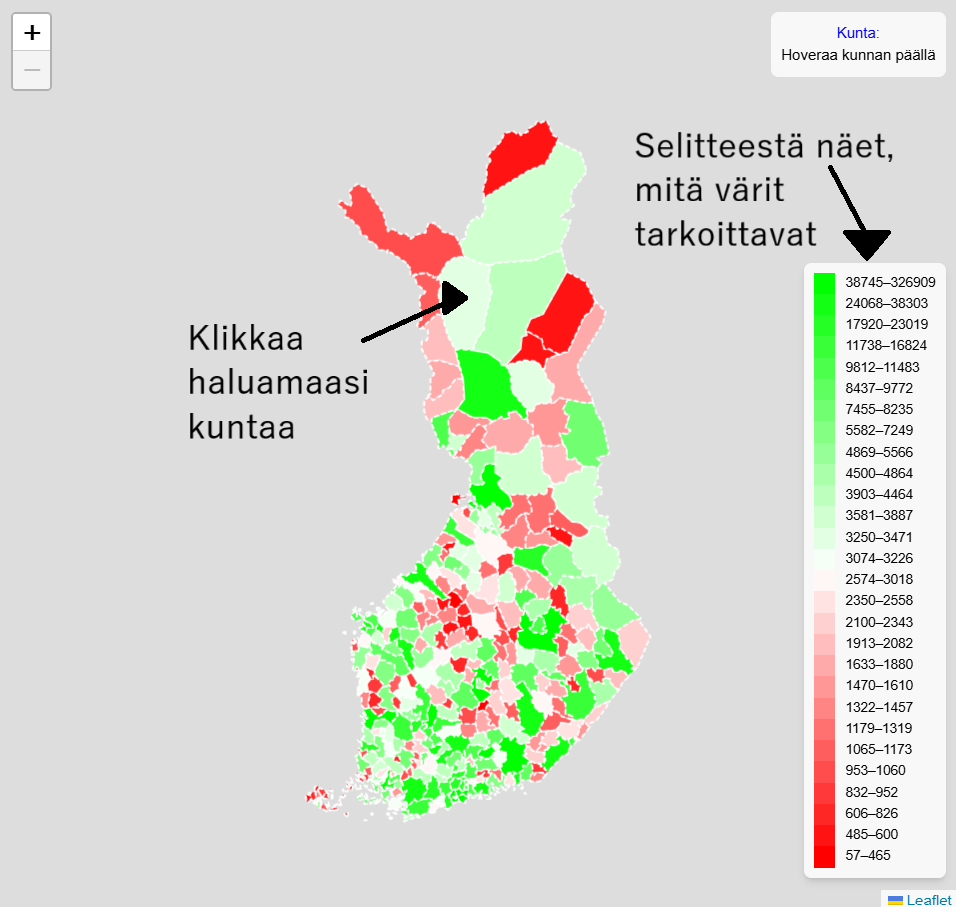
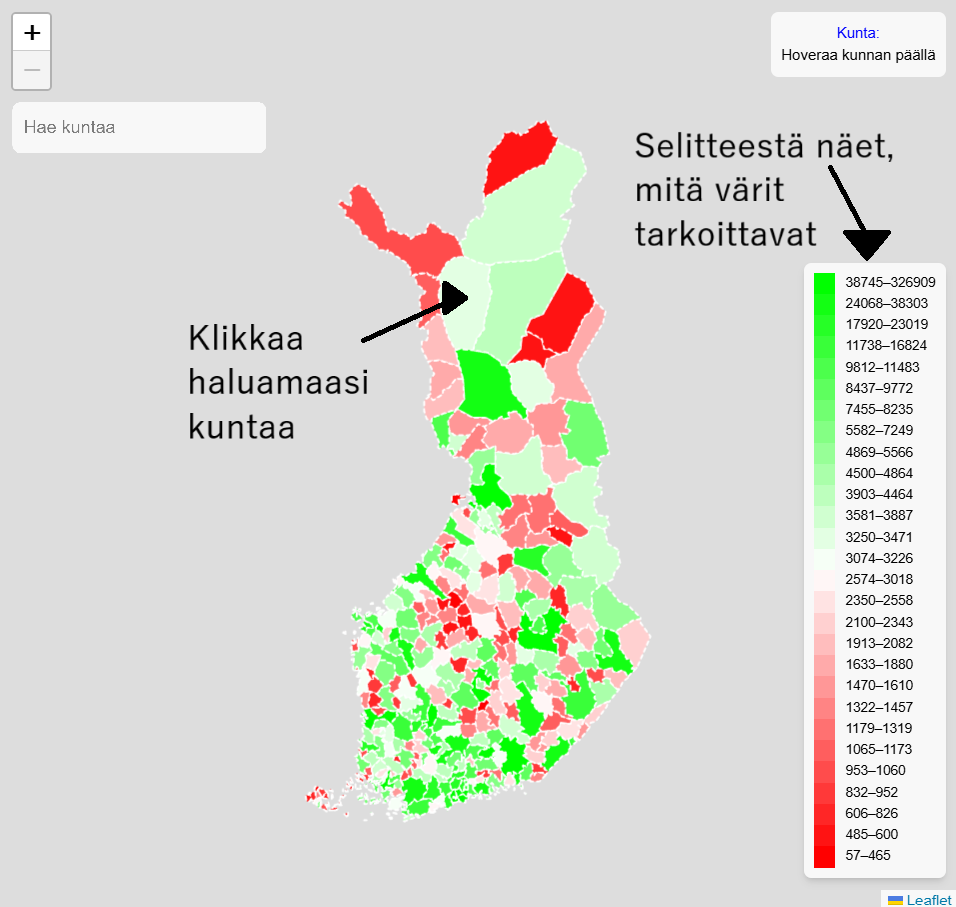
Continued instructions page and rebranded to Ponse

Changed region(s): [[0.0, 0.0926, 0.3033, 0.1852]]

diff --git a/src/app/instructions/page.js b/src/app/instructions/page.js
@@ -4,26 +4,36 @@ import Image from "next/image";
 
 export default function Home() {
   return (
-    <div className="font-sans grid grid-rows-[20px_1fr_20px] items-center justify-items-center min-h-screen p-8 pb-20 gap-16 sm:p-20">
-      <MenuButton />
-      <main className="flex flex-col gap-[32px] row-start-2 items-center sm:items-start w-[50vw]">
-        <h1>Käyttöohje:</h1>
-        <p className="w-full">
-          Voit valita kunnan klikkaamalla isoa karttaa. Tässä parametrina on valittu miesten määrä.
-          Karttaselite kertoo mikä väri vastaa mitäkin parametrin arvoa. Kohta opit parametrin
-          valitsemisen.
-        </p>
-        <div className="w-full h-[50vw] relative">
-          <Image fill src="/images/LargeMapPicture.png" alt="Large map" />
-        </div>
-        <p>
-          Voit valita parametrin valitsemalla &quot;Valitse parametrit&quot; -laatikon dropdown
-          menusta.
-        </p>
-        <div className="w-full h-[20vw] relative">
-          <Image fill src="/images/ParameterSelectorPicture.png" alt="Parameter selector" />
-        </div>
-      </main>
-    </div>
+      <div className="font-sans grid grid-rows-[20px_1fr_20px] items-center justify-items-center min-h-screen p-8 pb-20 gap-16 sm:p-20">
+          <MenuButton />
+          <main className="flex flex-col gap-[32px] row-start-2 items-center sm:items-start w-[50vw]">
+              <h1>Käyttöohje:</h1>
+              <p className="w-full">
+                  Voit valita kunnan klikkaamalla isoa karttaa. Voit valita kunnan myös
+                  kirjoittamalla kunnan nimen hakupalkkiin. Tässä parametrina on valittu miesten
+                  määrä. Karttaselite kertoo mikä väri vastaa mitäkin parametrin arvoa. Hoveraamalla
+                  kunnan päällä näet myös pikainfon kunnasta oikeassa yläkulmassa. Seuraavaksi opit
+                  parametrin valitsemisen.
+              </p>
+              <div className="w-full h-[50vw] relative">
+                  <Image fill src="/images/LargeMapPicture.png" alt="Large map" />
+              </div>
+              <p>
+                  Voit valita parametrin valitsemalla &quot;Valitse parametrit&quot; -laatikon
+                  dropdown menusta.
+              </p>
+              <div className="w-full h-[20vw] relative">
+                  <Image fill src="/images/ParameterSelectorPicture.png" alt="Parameter selector" />
+              </div>
+              <p className="w-full">
+                  Klikattuasi kuntaa kartalta aukeaa sivulle pienempi kartta tarkempaa
+                  kuntakohtaista tarkastelua varten. Kartalta näet kunnan postinumeroalueet ja
+                  valitun parametrin mukaisen värityksen (nyt Kittilä ja miesten määrä).
+              </p>
+              <div className="w-full h-[30vw] relative">
+                  <Image fill src="/images/PreviewMapPicture.png" alt="Preview map" />
+              </div>
+          </main>
+      </div>
   );
 }

diff --git a/src/components/TopBar/Logo.js b/src/components/TopBar/Logo.js
@@ -4,7 +4,7 @@ function Logo() {
 
     return (
         <div className="absolute p-[3vh] right-0 lg:right-[65vw]">
-            <p>Postinumero-sovellus!</p>
+            <h1>Ponse</h1>
         </div>
     );
 

diff --git a/src/app/globals.css b/src/app/globals.css
@@ -30,3 +30,8 @@ body {
 input {
   border-color: yellow;
 }
+
+h1 {
+  font-size: x-large;
+  font-weight: bold;
+}
